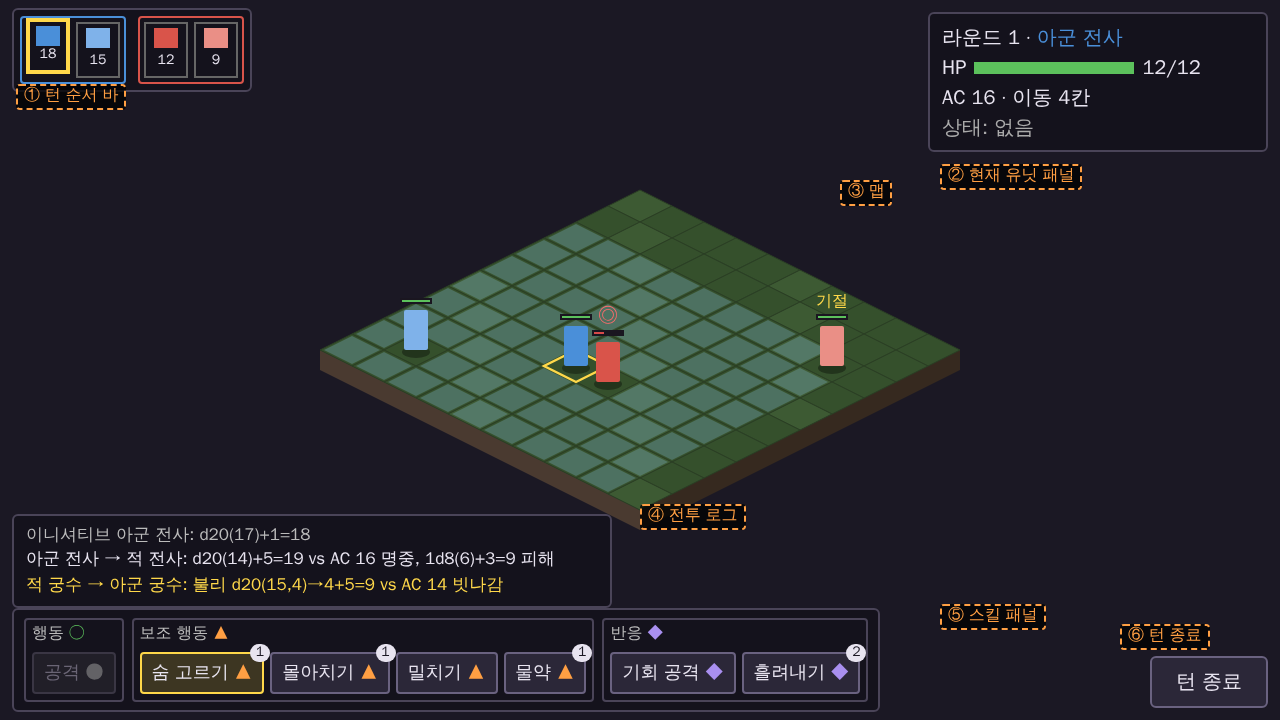
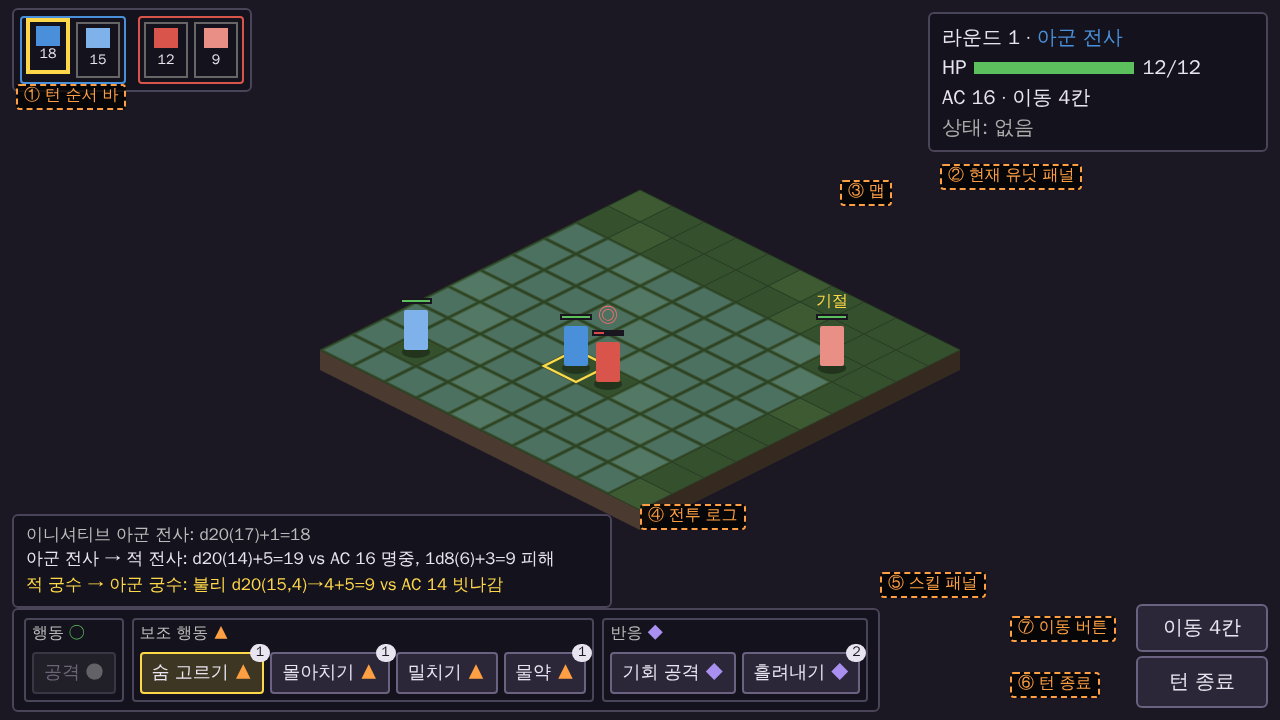
docs(combat): allow reactions on the reacting unit's own turn (#46)
반응은 조건이 맞으면 누구의 턴이든 쓴다. 자기 턴에 이동하다 기회
공격에 맞아도 흘려내기를 쓸 수 있다는 2026-10-05 기획 결정을 문서에
반영한다. 현재 구현과 같은 동작이다.

- COMBAT_DESIGN.md 3-3, 8장, 9-5와 CONTEXT.md의 반응 정의 수정
- DEV_REQUEST_M1.md 흘려내기 검수 항목에 자기 턴 경우 추가(번호 유지)
- UI 목업: 흘려내기 성공률 60% -> 45%, 이동 버튼 추가

Refs #12

Claude-Session: https://claude.ai/code/session_01WBSxVAwLJnMUuqC1y1M1fR

Changed region(s): [[0.6875, 0.7944, 0.9688, 0.9778]]

diff --git a/docs/COMBAT_DESIGN.md b/docs/COMBAT_DESIGN.md
@@ -115,9 +115,10 @@ flowchart TD
 | 이동력 | 6칸 | 자기 턴 시작 | 이동. 나눠 쓸 수 있음 |
 | 행동 | 1회 | 자기 턴 시작 | 기본 공격, 행동형 스킬 |
 | 보조 행동 | 1회 | 자기 턴 시작 | 밀치기, 물약, 보조 행동형 스킬 |
-| 반응 | 1회 | 자기 턴 시작 | 기회 공격, 반응형 스킬 (다른 유닛의 턴에 사용) |
+| 반응 | 1회 | 자기 턴 시작 | 기회 공격, 반응형 스킬. 조건이 맞으면 **자기 턴에도** 사용 |
 
 - 반응은 기회 공격과 흘려내기가 **함께 씁니다.** 한 라운드에 둘 중 하나만 쓸 수 있습니다.
+- 반응은 조건이 맞으면 누구의 턴이든 씁니다. 예: 자기 턴에 이동하다 적의 기회 공격에 맞으면 흘려내기를 쓸 수 있습니다. 이때 쓴 반응은 다음 자기 턴 시작까지 회복되지 않습니다. (2026-10-05 결정)
 
 ### 3-4. 턴 종료
 
@@ -272,7 +273,7 @@ flowchart TD
 | 용어 | 뜻 | 피할 말 |
 |---|---|---|
 | **보조 행동** | 턴마다 1회 쓰는, 행동과 별개인 실행 기회 | 보너스 액션, 부가 행동 |
-| **반응** | 자기 턴이 아닐 때 조건이 맞으면 쓰는 실행 기회. 자기 턴 시작에 회복 | 리액션, 대응 |
+| **반응** | 조건이 맞으면 누구의 턴이든 쓰는 실행 기회 (자기 턴 포함). 자기 턴 시작에 회복 | 리액션, 대응 |
 | **기회 공격** | 적이 스스로 인접 칸을 벗어날 때 반응으로 하는 기본 공격 | 견제 공격, 추격 공격 |
 | **턴 묶음** | 이니셔티브에서 연달아 있는 같은 편 유닛들의 턴 | 그룹 턴, 연속 턴 |
 | **유리 / 불리** | d20을 두 번 굴려 높은 값 / 낮은 값을 쓰는 판정 | 이점, 어드밴티지 |
@@ -391,7 +392,7 @@ flowchart TD
 
 ### 9-5. 반응 확인 창
 
-아군이 반응을 쓸 수 있는 순간에 적의 턴을 멈추고 화면 가운데에 띄웁니다.
+아군이 반응을 쓸 수 있는 순간에 게임을 멈추고 화면 가운데에 띄웁니다. 적의 턴이든 아군 자신의 턴이든 같습니다.
 
 | 상황 | 문구 예시 | 선택 |
 |---|---|---|

diff --git a/docs/DEV_REQUEST_M1.md b/docs/DEV_REQUEST_M1.md
@@ -86,7 +86,7 @@
 
 - [ ] 아군 전사 옆의 적이 걸어서 벗어나면 기회 공격 확인 창이 뜬다.
 - [ ] 아군 궁수 옆의 적이 벗어날 때는 확인 창이 뜨지 않는다. (기회 공격 불가 타입)
-- [ ] 전사가 공격에 맞으면 흘려내기 확인 창이 뜬다. `d20 + 민첩 ≥ DC13`이면 피해와 공격의 추가 효과가 없다. 전사 민첩+1의 성공률은45%다.
+- [ ] 전사가 공격에 맞으면 흘려내기 확인 창이 뜬다. 자기 턴에 이동하다 기회 공격에 맞은 경우도 같다. `d20 + 민첩 ≥ DC13`이면 피해와 공격의 추가 효과가 없다. 전사 민첩+1의 성공률은45%다.
 - [ ] 한 라운드에 기회 공격을 쓰면 흘려내기를 쓸 수 없다. (반응 공유)
 - [ ] 적이 물러서며 쏘기를 쓰고 벗어나면 기회 공격이 일어나지 않는다.
 

diff --git a/CONTEXT.md b/CONTEXT.md
@@ -48,7 +48,7 @@ _Avoid_: 액션 포인트, AP
 _Avoid_: 보너스 액션, 부가 행동
 
 **반응**:
-자기 턴이 아닐 때 조건이 맞으면 쓰는 실행 기회입니다. 자기 턴 시작에 회복합니다. 기회 공격과 흘려내기가 함께 씁니다.
+조건이 맞으면 누구의 턴이든 쓰는 실행 기회입니다. 자기 턴에도 쓸 수 있습니다. 자기 턴 시작에 회복합니다. 기회 공격과 흘려내기가 함께 씁니다.
 _Avoid_: 리액션, 대응
 
 ## 판정
